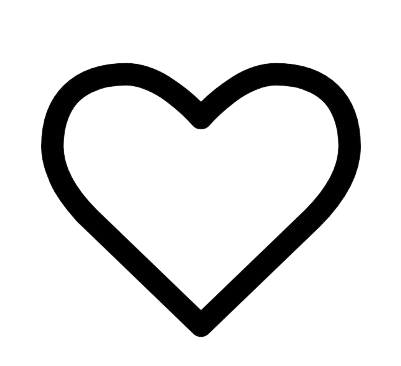
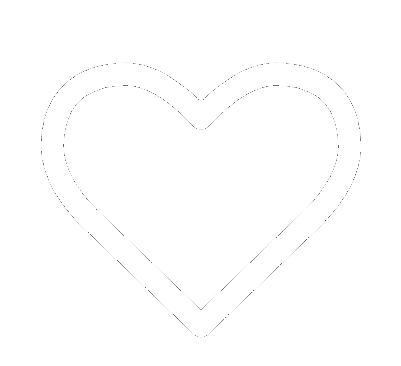
Feat. 마무리

Changed region(s): [[0.0898, 0.1503, 0.8978, 0.9317]]

diff --git a/js/cart.js b/js/cart.js
@@ -25,12 +25,12 @@ document.addEventListener("DOMContentLoaded", function () {
     });
     return Object.values(group); // 배열 형태로 변환
   }
-
   // 장바구니 업데이트
   function updatePurchaseHistory() {
-    const groupMovies = groupMovies();
+    console.log("updatePurchaseHistory 실행됨!");
+    const groupedMovies = groupMovies();
 
-    if (groupMovies.length === 0) {
+    if (groupedMovies.length === 0) {
       purchaseHistoryContainer.innerHTML = "<p>구매한 영화가 없습니다.</p>";
     } else {
       purchaseHistoryContainer.innerHTML = `
@@ -47,7 +47,7 @@ document.addEventListener("DOMContentLoaded", function () {
             </tr>
           </thead>
           <tbody>
-            ${groupMovies
+            ${groupedMovies
               .map((movie) => {
                 const imagePath = movie.image.includes("/")
                   ? movie.image

diff --git a/main.html b/main.html
@@ -10,7 +10,7 @@
     <!-- header -->
     <div class="header">
       <a href="heart.html">
-        <img src="./heart.png" alt="" class="lefticon" />
+        <img src="./heart1.png" alt="" class="lefticon" />
       </a>
       <div class="headerCenter">
         <img src="./icon.png" alt="" id="mainIcon" />

diff --git a/js/save.js b/js/save.js
@@ -264,6 +264,7 @@ const clearError = (id) => {
   inputGSpan.innerText = "";
   inputPSpan.innerText = "";
 };
+
 //수정
 const update = (id) => {
   // 경력 이름 나이 div
